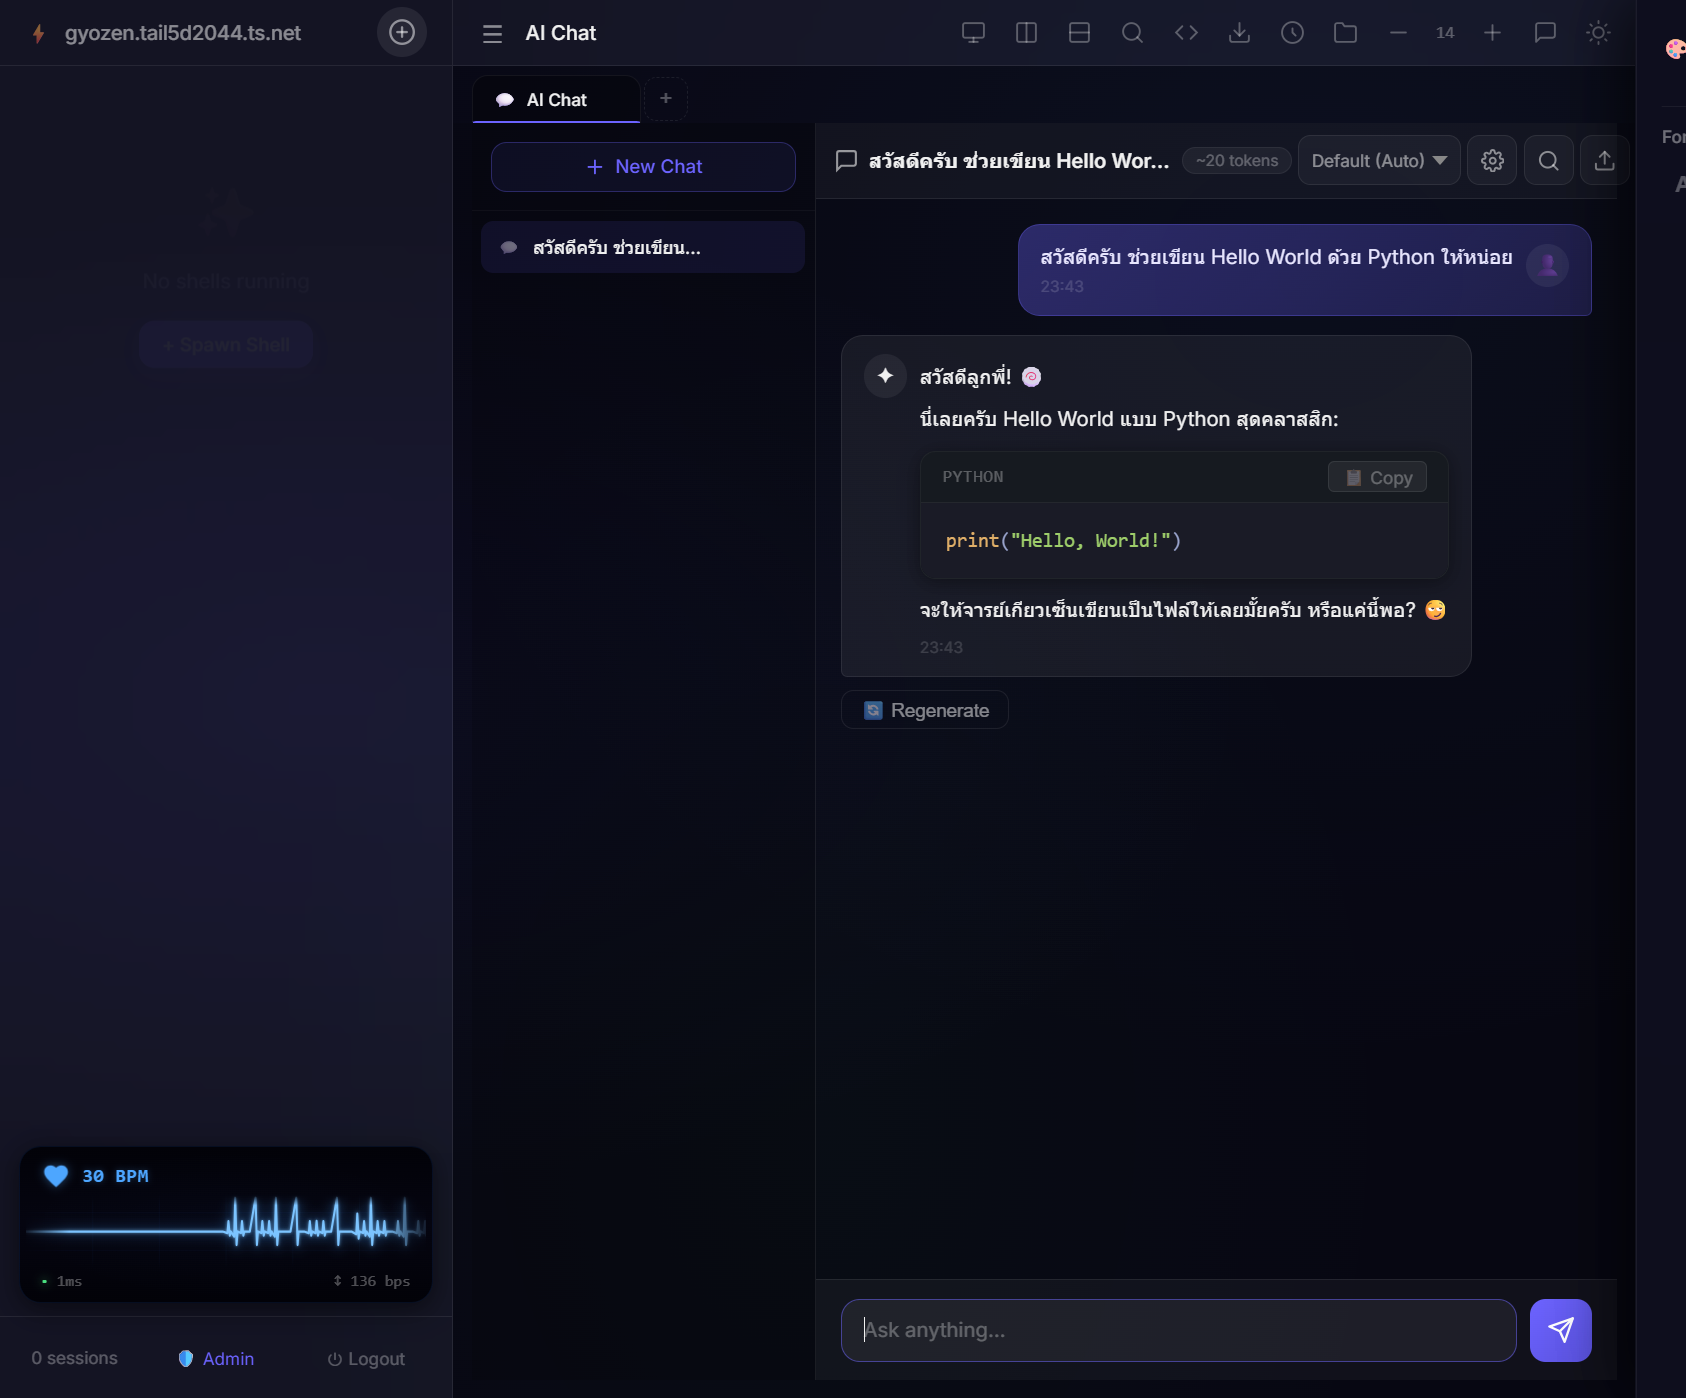
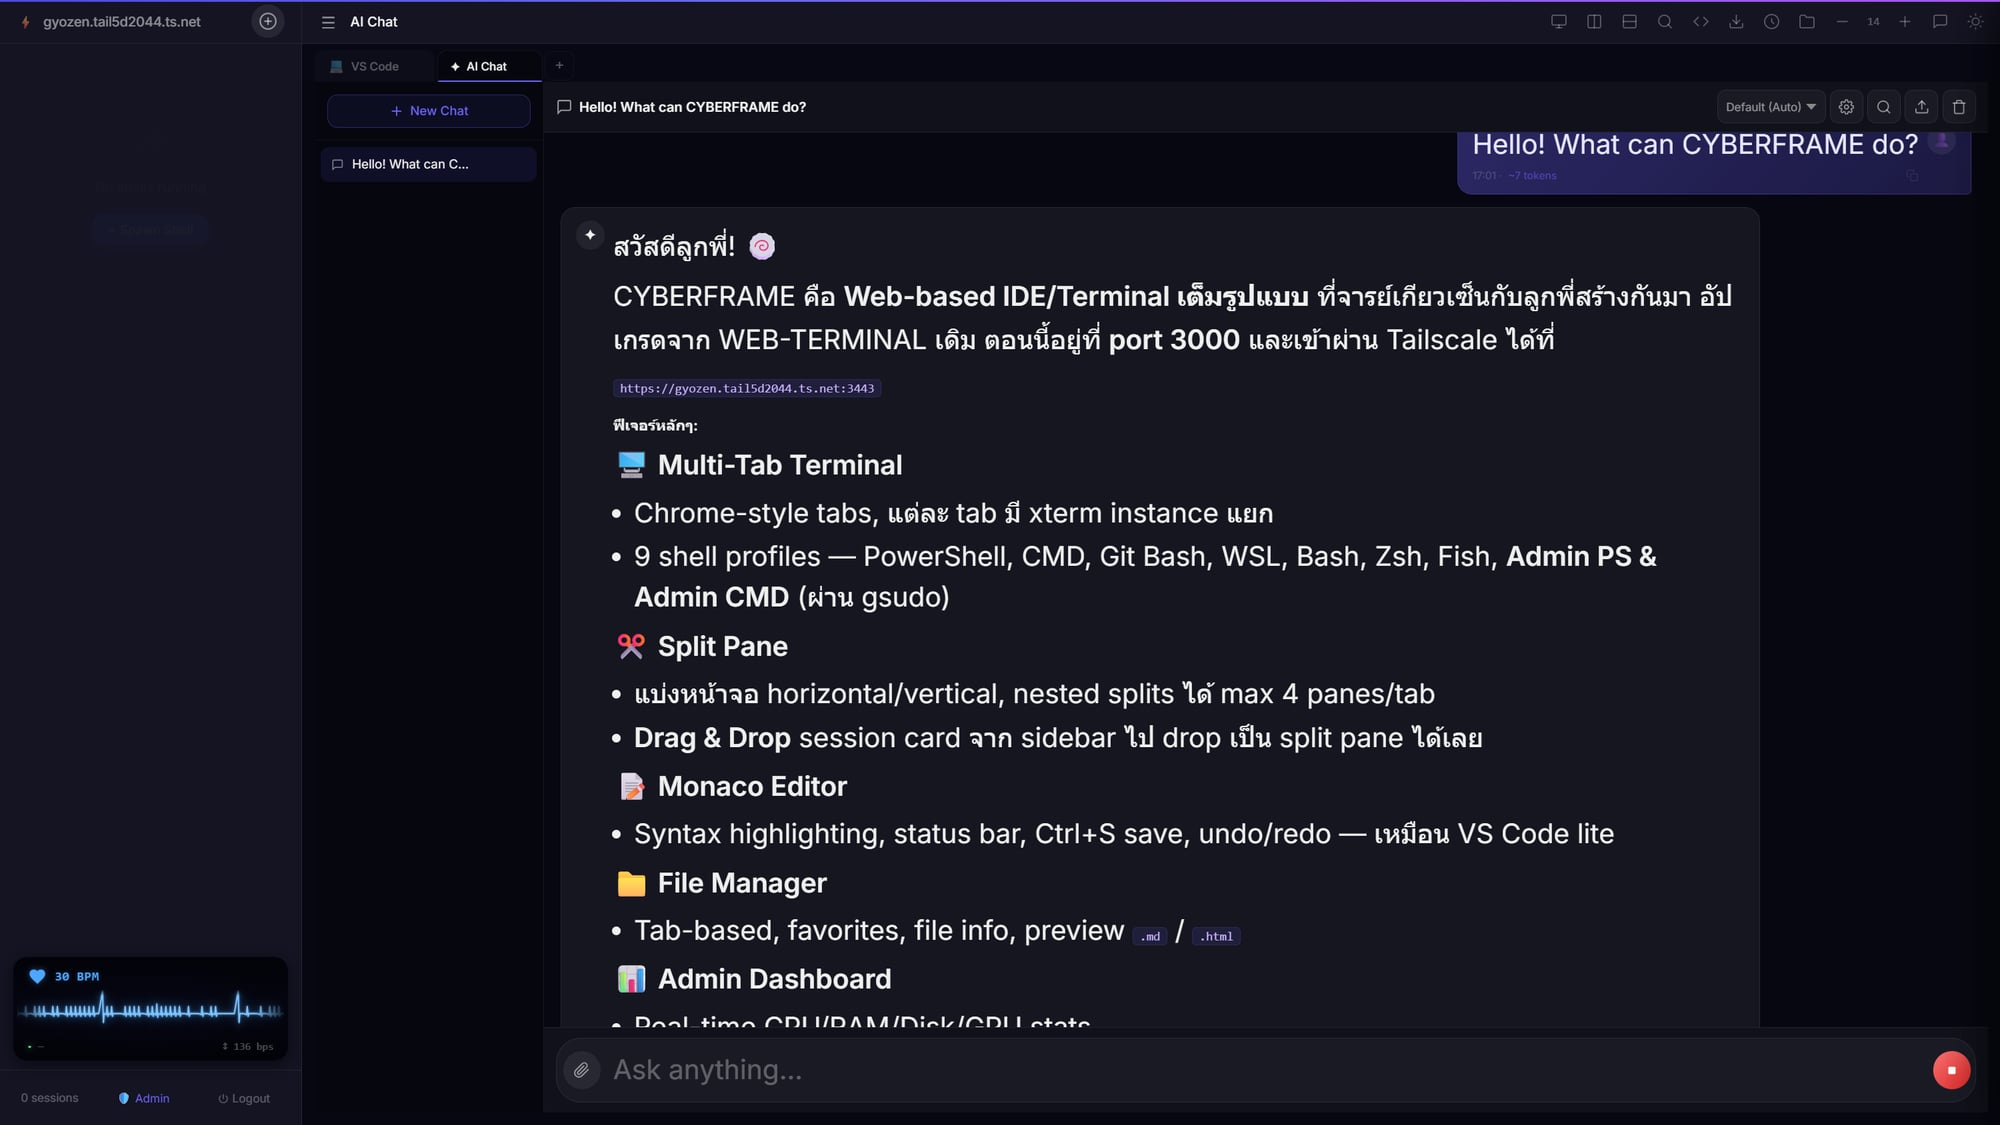
docs: add VS Code, multi-tab, updated AI chat + agent monitor screenshots

diff --git a/README.md b/README.md
@@ -315,6 +315,10 @@ Open `http://localhost:3000` in your browser.
 |---------|--------------|
 | ![AI Chat](docs/images/ai-chat.png) | ![Agent Monitor](docs/images/agent-monitor.png) |
 
+| VS Code (in-tab) | Multi-Tab |
+|-------------------|-----------|
+| ![VS Code](docs/images/vscode.png) | ![Multi-Tab](docs/images/multi-tab.png) |
+
 ### 📱 Mobile (iOS Safari)
 
 <table>
